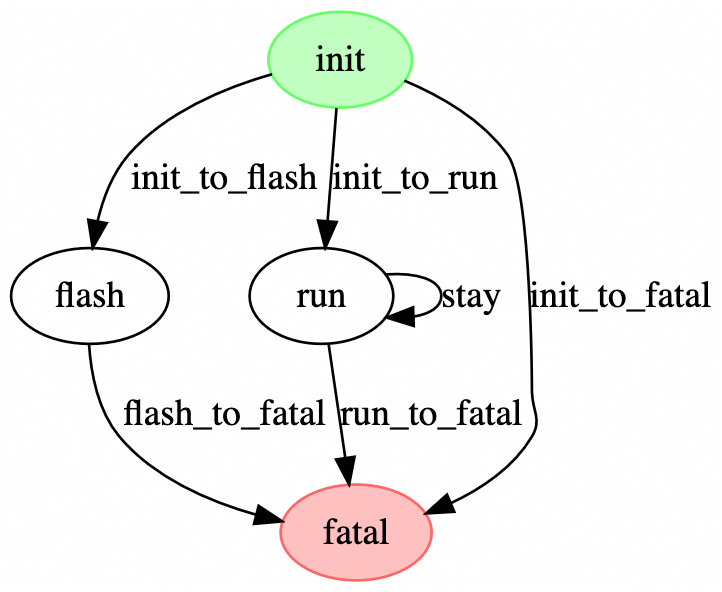
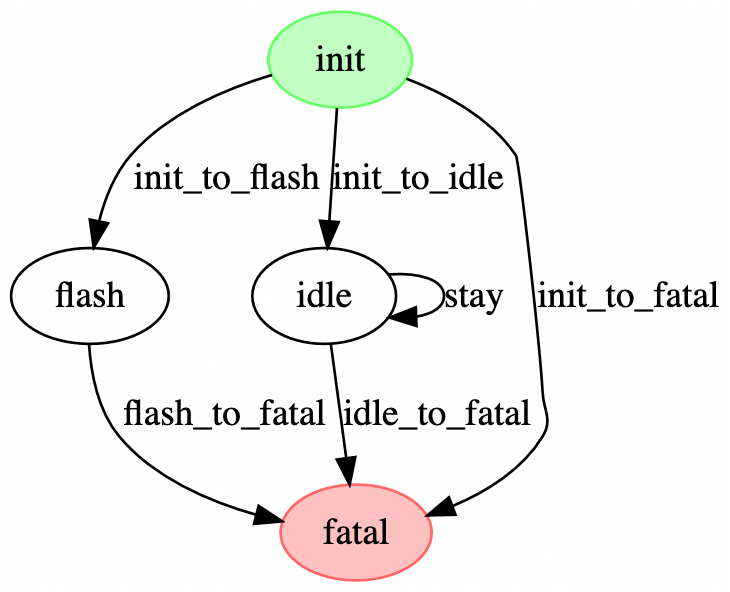
update: rename _'run'_ state to _'idle'_

diff --git a/Core/Src/bms/fsm.c b/Core/Src/bms/fsm.c
@@ -5,7 +5,7 @@ Description: gv_fsm example
 
 Generated by gv_fsm ruby gem, see https://rubygems.org/gems/gv_fsm
 gv_fsm version 0.5.2
-Generation date: 2026-03-21 18:02:32 +0100
+Generation date: 2026-03-24 00:28:09 +0100
 Generated from: fsm.dot
 The finite state machine has:
   4 states
@@ -19,22 +19,22 @@ The finite state machine has:
 
 // GLOBALS
 // State human-readable names
-const char *state_names[] = { "init", "flash", "run", "fatal" };
+const char *state_names[] = { "init", "flash", "idle", "fatal" };
 
 // List of state functions
 state_func_t *const state_table[NUM_STATES] = {
     do_init,  // in state init
     do_flash, // in state flash
-    do_run,   // in state run
+    do_idle,  // in state idle
     do_fatal, // in state fatal
 };
 
 // Table of transition functions
 transition_func_t *const transition_table[NUM_STATES][NUM_STATES] = {
-    /* states:     init          , flash         , run           , fatal          */
-    /* init    */ { NULL, init_to_flash, init_to_run, init_to_fatal },
+    /* states:     init          , flash         , idle          , fatal          */
+    /* init    */ { NULL, init_to_flash, init_to_idle, init_to_fatal },
     /* flash   */ { NULL, NULL, NULL, flash_to_fatal },
-    /* run     */ { NULL, NULL, stay, run_to_fatal },
+    /* idle    */ { NULL, NULL, stay, idle_to_fatal },
     /* fatal   */ { NULL, NULL, NULL, NULL },
 };
 
@@ -52,14 +52,14 @@ transition_func_t *const transition_table[NUM_STATES][NUM_STATES] = {
  */
 
 // Function to be executed in state init
-// valid return states: STATE_FLASH, STATE_RUN, STATE_FATAL
+// valid return states: STATE_FLASH, STATE_IDLE, STATE_FATAL
 state_t do_init(state_data_t *data) {
     state_t next_state = STATE_FLASH;
     /* Your Code Here */
 
     switch (next_state) {
         case STATE_FLASH:
-        case STATE_RUN:
+        case STATE_IDLE:
         case STATE_FATAL:
             break;
         default:
@@ -85,15 +85,15 @@ state_t do_flash(state_data_t *data) {
     return next_state;
 }
 
-// Function to be executed in state run
-// valid return states: NO_CHANGE, STATE_RUN, STATE_FATAL
-state_t do_run(state_data_t *data) {
+// Function to be executed in state idle
+// valid return states: NO_CHANGE, STATE_IDLE, STATE_FATAL
+state_t do_idle(state_data_t *data) {
     state_t next_state = NO_CHANGE;
     /* Your Code Here */
 
     switch (next_state) {
         case NO_CHANGE:
-        case STATE_RUN:
+        case STATE_IDLE:
         case STATE_FATAL:
             break;
         default:
@@ -139,8 +139,8 @@ void init_to_flash(state_data_t *data) {
 }
 
 // This function is called in 1 transition:
-// 1. from init to run
-void init_to_run(state_data_t *data) {
+// 1. from init to idle
+void init_to_idle(state_data_t *data) {
     /* Your Code Here */
 }
 
@@ -157,14 +157,14 @@ void flash_to_fatal(state_data_t *data) {
 }
 
 // This function is called in 1 transition:
-// 1. from run to run
+// 1. from idle to idle
 void stay(state_data_t *data) {
     /* Your Code Here */
 }
 
 // This function is called in 1 transition:
-// 1. from run to fatal
-void run_to_fatal(state_data_t *data) {
+// 1. from idle to fatal
+void idle_to_fatal(state_data_t *data) {
     /* Your Code Here */
 }
 

diff --git a/Core/Inc/bms/fsm.h b/Core/Inc/bms/fsm.h
@@ -5,7 +5,7 @@ Description: gv_fsm example
 
 Generated by gv_fsm ruby gem, see https://rubygems.org/gems/gv_fsm
 gv_fsm version 0.5.2
-Generation date: 2026-03-21 18:02:32 +0100
+Generation date: 2026-03-24 00:28:09 +0100
 Generated from: fsm.dot
 The finite state machine has:
   4 states
@@ -31,7 +31,7 @@ typedef void state_data_t;
 typedef enum {
     STATE_INIT = 0,
     STATE_FLASH,
-    STATE_RUN,
+    STATE_IDLE,
     STATE_FATAL,
     NUM_STATES,
     NO_CHANGE
@@ -46,14 +46,14 @@ typedef void transition_func_t(state_data_t *data);
 
 // State functions
 // Function to be executed in state init
-// valid return states: STATE_FLASH, STATE_RUN, STATE_FATAL
+// valid return states: STATE_FLASH, STATE_IDLE, STATE_FATAL
 state_t do_init(state_data_t *data);
 // Function to be executed in state flash
 // valid return states: STATE_FATAL
 state_t do_flash(state_data_t *data);
-// Function to be executed in state run
-// valid return states: NO_CHANGE, STATE_RUN, STATE_FATAL
-state_t do_run(state_data_t *data);
+// Function to be executed in state idle
+// valid return states: NO_CHANGE, STATE_IDLE, STATE_FATAL
+state_t do_idle(state_data_t *data);
 // Function to be executed in state fatal
 // valid return states: NO_CHANGE
 state_t do_fatal(state_data_t *data);
@@ -63,11 +63,11 @@ extern state_func_t *const state_table[NUM_STATES];
 
 // Transition functions
 void init_to_flash(state_data_t *data);
-void init_to_run(state_data_t *data);
+void init_to_idle(state_data_t *data);
 void init_to_fatal(state_data_t *data);
 void flash_to_fatal(state_data_t *data);
 void stay(state_data_t *data);
-void run_to_fatal(state_data_t *data);
+void idle_to_fatal(state_data_t *data);
 
 // Table of transition functions
 extern transition_func_t *const transition_table[NUM_STATES][NUM_STATES];